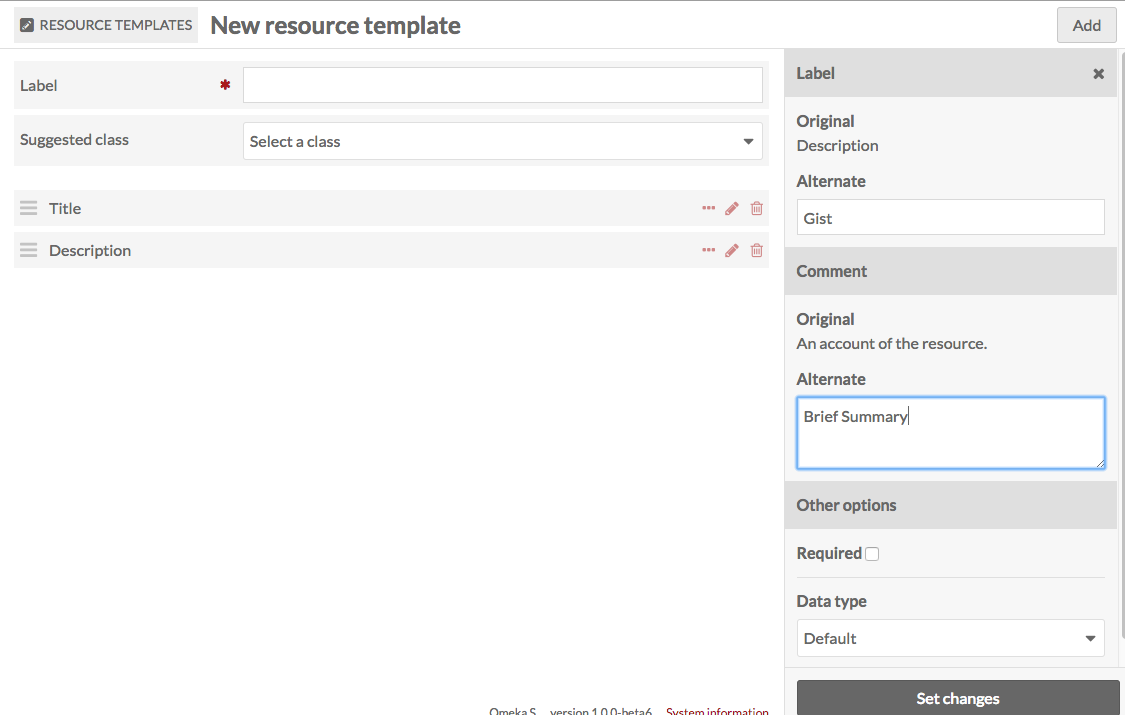
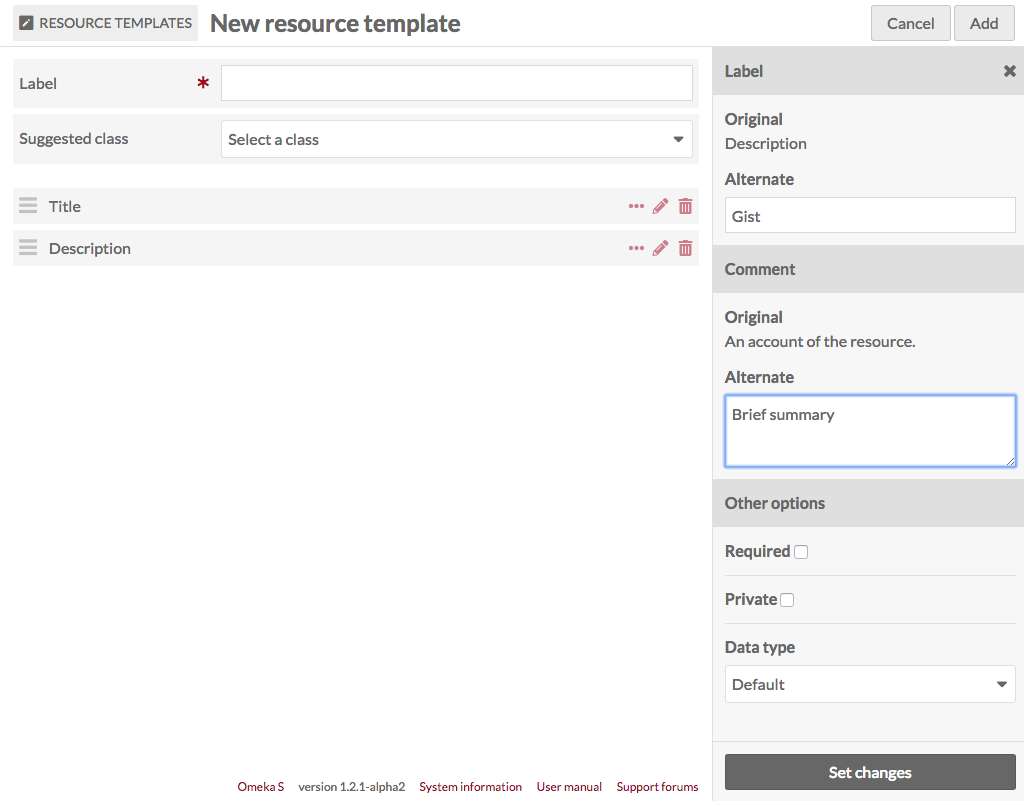
private properties on templates

diff --git a/docs/content/resource-template.md b/docs/content/resource-template.md
@@ -49,7 +49,9 @@ Change the displayed label of the property that appears when the template is app
 Add alternate comments for the property in the field *Alternate* in this section. This will change the text under the property name when users are creating items using your Resource Template.
  
 **Other options** 
-Use the checkbox to determine whether a property is required when the template is in use.
+The first checkbox sets whether a property is required when the template is in use. If checked, users will not be able to save an item or item set using this template without adding data for this property.
+
+The next checkbox, Private, sets the visibility of the data for this property. If checked, any data added by a user for this property will only be visible to the owner of the item or item set, global administrators, site administrators, and editors. It will not be visible to the public. *Please note* that 
 
 Using the dropdown, you can designate a  data type for the property: Literal, URI, or Resource. Whichever you choose will be automatically loaded once someone selects that Resource Type and they will only be able to use this data type for the element when using this Resource Template.  
 
@@ -73,6 +75,24 @@ Once you have created a resource template, you can edit it at any time by clicki
 If you decide you do not want to edit the template or do not wish to save your changes, simply click the Cancel button located between the Delete and Save buttons in the upper right hand corner of the window.
 
 ![Edit view of the template Person. There are eight properties in use.](/content/contentfiles/resourcetemplate_edit.png)
+
+## Reviewing resource templates
+Clicking on the title of a resource template takes you to a table view of all the properties and property options for that template.
+
+![Template view for the "Postcard" template with properties for title, description, creator, transcript of, and recipient](/content/contentfiles/templates_view.png)
+
+Each property displays as a row in the table, with columns for:
+
+- Original label, with an ellipses button to see which the property's vocabulary, term, and original comment;
+- Data type;
+- Alternate label;
+- Alternate comment;
+- Whether the property is required;
+- Whether the property's data is set to private.
+
+Click the ellipses next to the original label to open a draw displaying the property's vocabulary, term, and original comment.
+
+Use the buttons in the upper right of this page to export or edit the template.
 
 ## Sharing Resource Template
 It is possible to share a resource template between Omeka S installations by exporting and importing them.
